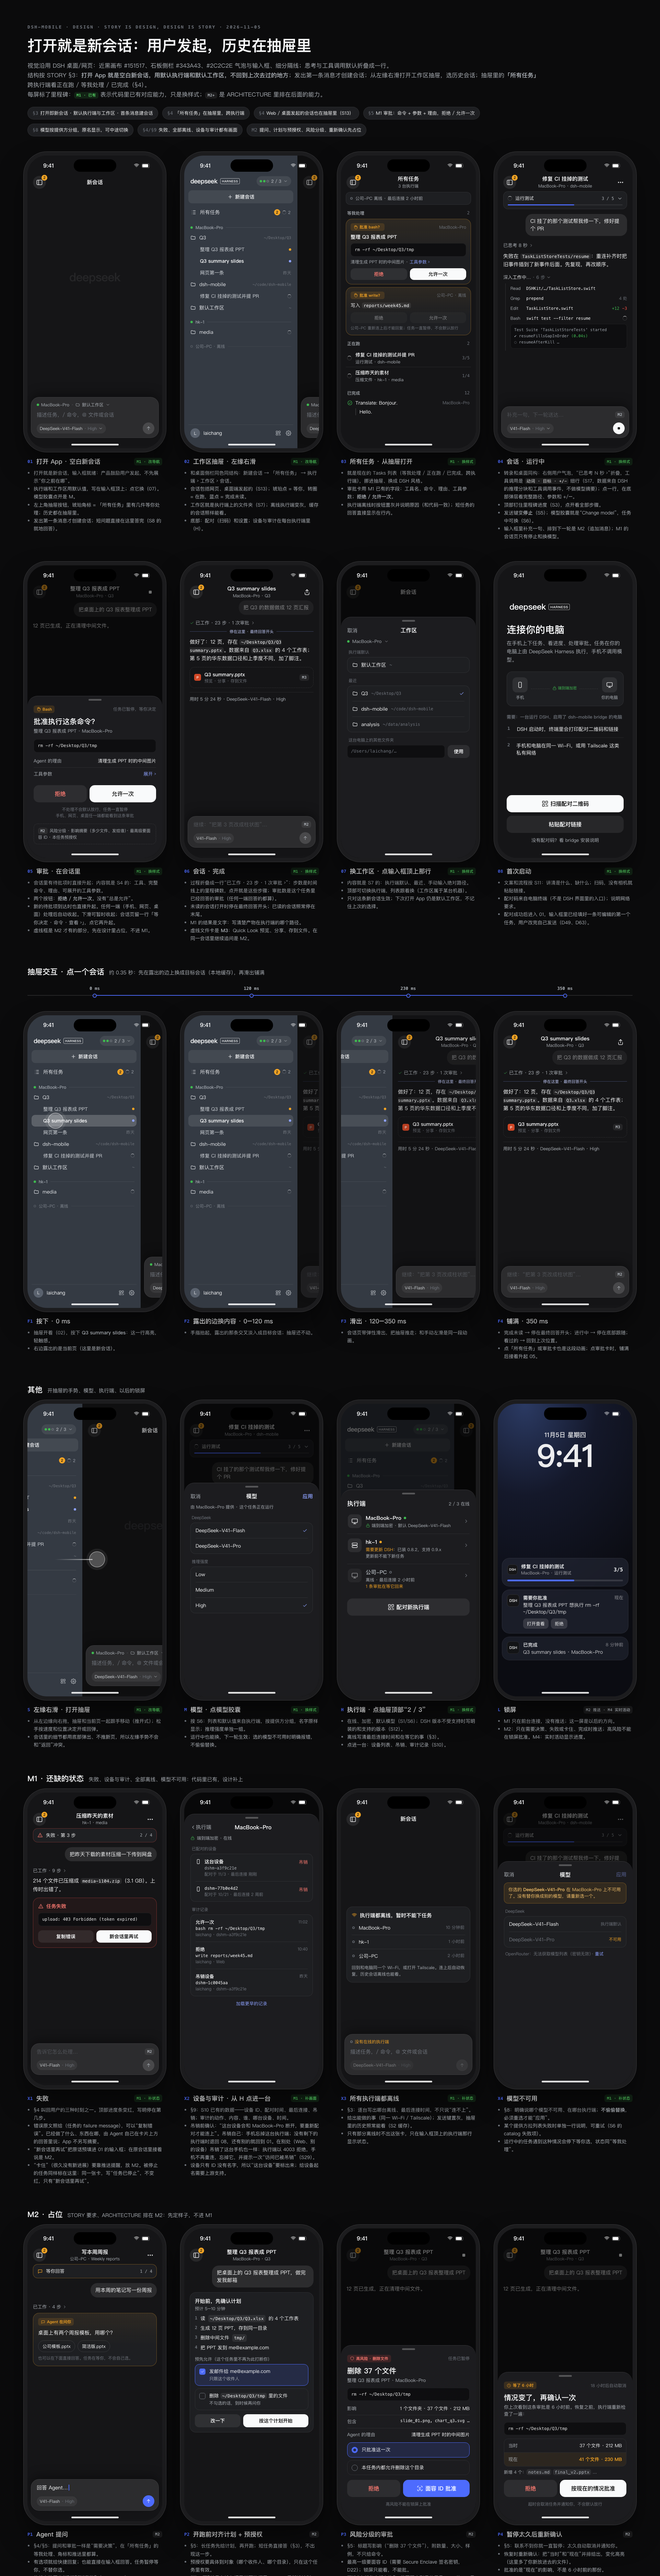
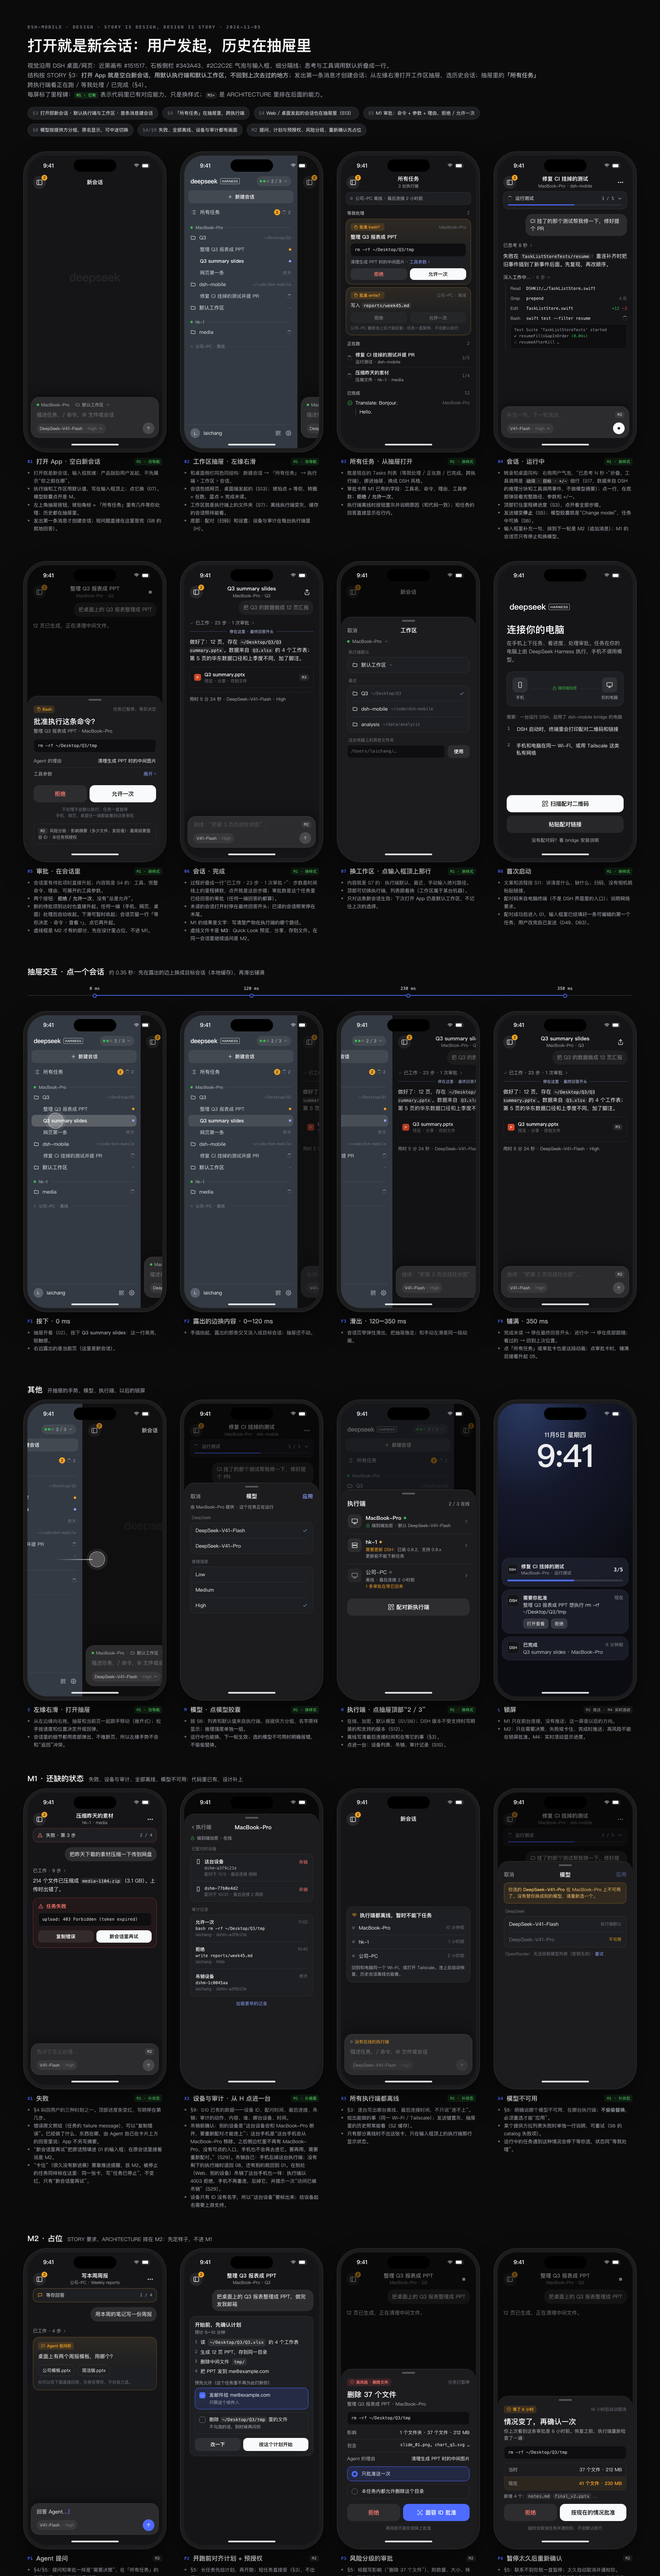
S29: the revoke-this-device alert says the host leaves the drawer
The user asked (2026-11-08) that the confirmation before a revoke of this
device say what happens: this phone is removed from the host, the host leaves
the drawer with nothing left to tap, and the phone does not reconnect. The
same words in X2 and the drawer's "Devices and audit"; a revoke of another
device keeps its own message. The real-bridge UI tests check the text.
D82 and the X2 caption on the board say it too.

diff --git a/ios/dsh-mobileUITests/S29RevokeUITests.swift b/ios/dsh-mobileUITests/S29RevokeUITests.swift
@@ -123,6 +123,15 @@ final class S29RevokeUITests: XCTestCase {
         }
     }
 
+    /// The user (2026-11-08): the alert before a revoke of this device says that this device is
+    /// removed and the host leaves the drawer, with nothing left to tap.
+    private func expectRevokeThisDeviceMessage(_ alert: XCUIElement) {
+        for part in ["这台手机会从", "移除", "侧边栏里不再有", "没有可点的入口", "不会再去连它"] {
+            XCTAssertTrue(alert.staticTexts.matching(NSPredicate(format: "label CONTAINS %@", part)).firstMatch.exists,
+                          "the alert does not say \"\(part)\": \(alert.debugDescription)")
+        }
+    }
+
     /// The hosts sheet path on a real bridge (scripts/dsh-up.mjs on S29's ports, Noise): pair,
     /// revoke this device in X2. The bridge answers, then closes with 4003 and refuses the phone.
     func testRevokeThisDeviceInHostsSheetOnTheRealBridgeOpens08AndStays() throws {
@@ -136,6 +145,8 @@ final class S29RevokeUITests: XCTestCase {
         app.buttons["device.revoke.\(own.label)"].tap()
         let alert = app.alerts.firstMatch
         XCTAssertTrue(alert.waitForExistence(timeout: 5), app.debugDescription)
+        expectRevokeThisDeviceMessage(alert)
+        saveShot("s29-revoke-confirm")
         alert.buttons.matching(NSPredicate(format: "label == %@", "吊销")).firstMatch.tap()
         expect08AndStays(app, shot: "s29-real-bridge-08")
     }
@@ -153,6 +164,7 @@ final class S29RevokeUITests: XCTestCase {
         app.buttons["device.revoke.\(own.label)"].tap()
         let alert = app.alerts.firstMatch
         XCTAssertTrue(alert.waitForExistence(timeout: 5), app.debugDescription)
+        expectRevokeThisDeviceMessage(alert)
         alert.buttons.matching(NSPredicate(format: "label IN {'Revoke', '吊销'}")).firstMatch.tap()
         expect08AndStays(app, shot: "s29-real-bridge-drawer-08")
     }

diff --git a/design/board.html b/design/board.html
@@ -935,7 +935,7 @@ svg.s{width:16px;height:16px} svg.xs{width:13px;height:13px} svg.l{width:24px;he
 </div>
 <div class="cap"><h3><i>X2</i>设备与审计 · 从 H 点进一台<span class="mtag m1">M1 · 补画面</span></h3><ul>
   <li>§9：S10 已有的数据——设备 ID、配对时间、最后连接、吊销；审计的动作、内容、谁、哪台设备、时间。</li>
-  <li>吊销前确认：“这台设备会和 MacBook-Pro 断开，要重新配对才能连上”。吊销自己：手机忘掉这台执行端；没有剩下的执行端时退回 08，还有别的就回到 01。在别处（Web、别的设备）吊销了这台手机也一样：执行端以 4003 拒绝，手机不再重连，忘掉它，并提示一次“访问已被吊销”（S29）。</li>
+  <li>吊销前确认：别的设备是“这台设备会和 MacBook-Pro 断开，要重新配对才能连上”；这台手机是“这台手机会从 MacBook-Pro 移除。之后侧边栏里不再有 MacBook-Pro，没有可点的入口，手机也不会再去连它。要再用，需要重新配对。”（S29）。吊销自己：手机忘掉这台执行端；没有剩下的执行端时退回 08，还有别的就回到 01。在别处（Web、别的设备）吊销了这台手机也一样：执行端以 4003 拒绝，手机不再重连，忘掉它，并提示一次“访问已被吊销”（S29）。</li>
   <li>设备只有 ID 没有名字，所以“这台设备”要标出来；给设备起名需要上游支持。</li>
 </ul></div>
 </div>

diff --git a/ios/dsh-mobile/Features/Hosts/HostDetailView.swift b/ios/dsh-mobile/Features/Hosts/HostDetailView.swift
@@ -57,11 +57,18 @@ struct HostDetailView: View {
             Button(role: .cancel) {} label: { Text("Cancel", tableName: "Hosts") }
         } message: { device in
             if device.id == list?.currentDeviceID {
-                Text("This phone will lose access to \(host?.name ?? ""). To use it again, pair again.", tableName: "Hosts")
+                // S29: say what happens; the host leaves the drawer and is not retried (D82).
+                Text(Self.revokeThisDeviceMessage(host?.name ?? ""))
             } else {
                 Text("Device \(device.id) will lose access to \(host?.name ?? ""). It must pair again to reconnect.", tableName: "Hosts")
             }
         }
+    }
+
+    /// S29: the message of the alert before a revoke of this device (X2 and the drawer's
+    /// "Devices and audit").
+    static func revokeThisDeviceMessage(_ host: String) -> String {
+        String(localized: "This phone will be removed from \(host). \(host) will leave the drawer, with nothing left to tap, and the phone will not reconnect to it. To use it again, pair again.", table: "Hosts")
     }
 
     private var confirmTitle: Text {

diff --git a/ios/dsh-mobile/Features/Devices/DeviceManagementView.swift b/ios/dsh-mobile/Features/Devices/DeviceManagementView.swift
@@ -58,7 +58,12 @@ struct DeviceManagementView: View {
             }
             Button("Cancel", role: .cancel) {}
         } message: { device in
-            Text("Device \(device.id) will disconnect from \(host). It must pair again to reconnect.")
+            if device.id == list?.currentDeviceID {
+                // S29: the same words as X2 (HostDetailView).
+                Text(HostDetailView.revokeThisDeviceMessage(host))
+            } else {
+                Text("Device \(device.id) will disconnect from \(host). It must pair again to reconnect.")
+            }
         }
     }
 

diff --git a/ARCHITECTURE.md b/ARCHITECTURE.md
@@ -140,7 +140,7 @@ Solid arrows are the outbound path (user → executor), dashed arrows the return
 | D65 | *Confirmed by the user (S23, 2026-11-07), with the cross-fade only on 03 and scroll positions in memory only.* **Drawer motion and landing positions (DESIGN.md "Navigation", F1–F4).** `ShellModel.open(_:)` runs the motion; `DrawerMotion` holds the times. F1 (0 ms): the drawer row has a pressed highlight (`DrawerPressStyle`, the current-row color) and a light impact haptic (`sensoryFeedback` on `ShellModel.taps`). F2 (0–120 ms): the page is set at once and cross-fades (opacity, ease-out 120 ms) in the peeking edge; the page comes from the cache, as before; the drawer does not move. F3 (120–350 ms): the drawer closes with one spring (`spring(duration: 0.23, bounce: 0.12)`), so the page slides in and pushes the drawer away; a released drag, the peeking-page tap and the drawer button use the same spring. F4 (350 ms): `ShellModel.moving` goes false; S18's `PendingApprovalBar` waits for it, so 05 comes up after the page fills the screen. The same `open` serves 新建会话, 所有任务 and a card in 03; from 03 there is no drawer to push, so the page only cross-fades (then 05). The first message (D51) uses `ShellModel.show(_:)`: no motion, the same page. Landing (`SessionLanding`, decided once when the page is made, on top of D60): done, failed or stopped and not read → the start of the final answer (S19's marker and scroll, unchanged); running or waiting → the bottom, following the stream (D56); read → the last position that the user scrolled to on this phone (`ShellModel.lastPositions`, the content offset after a scroll by hand, counted from below S19's rows before the final answer, because the marker shows only on the unread visit; in memory for this run of the app); a read session that the user never scrolled, or after a relaunch, opens at the end, as in D60. A running session ignores a saved position. The restore repeats when the history or the text comes in, until the user scrolls (as S19's marker). `session.transcript` has the landing as its accessibility value. Alternatives considered: save the position also when the user did not scroll (a read session then opens at the answer's start forever, and S19's "read → end" no longer holds); keep positions on disk (more state across relaunch for a small gain; later if users ask); a matched-geometry move of the row into the page (heavier, and F2 says the edge cross-fades); a slide-in from the right for the 03 card (a push, which DESIGN.md does not have); the haptic on every page change (the first message is not a tap in the drawer). | STORY §4 (async first: open a session and see what matters first); DESIGN.md "Navigation" and F1–F4. |
 | D67 | *Confirmed by the user (S24, 2026-11-07).* **The keyboard goes away before any action that is not typing.** The shell's navigation state is the one place: `ShellModel.page`, `sheet` and `drawerOpen` call `Keyboard.dismiss()` (`resignFirstResponder` on the whole app) in `didSet` when the page changes, a sheet comes up, or the drawer opens. So every button that opens the drawer, a picker or a sheet, or moves to another page, is covered with no code of its own. The left-edge drag dismisses when the drag starts (not when the drawer settles), and the new session's page keeps its own tap and swipe down (`NewSessionBody`). Typing and the send key do not move the shell, so they keep the keyboard. Not covered: the host menu (`Picker` `.menu`) above the composer, which iOS shows as a menu, not a sheet. | Alternatives considered: one `endEditing` per button (each new button would have to remember it, which caused this bug); `.onChange` in `ShellView` (runs a frame after the change, so the keyboard would go down during the drawer's spring); a full-screen tap-catcher while the keyboard is up (it eats the first tap on every button, so each action needs two taps). | STORY §6 (ordinary people can use it: the phone behaves as iOS users expect); DESIGN.md "Navigation". |
 | D70 | *Confirmed by the user (S25, 2026-11-07).* **App icon (DESIGN.md "App icon").** An asset catalog `AppIcon.appiconset` with one 1024×1024 PNG per iOS appearance: default (opaque, no alpha channel), dark (transparent background) and tinted (grayscale on transparent). The unused mac slots are gone (the app is iPhone and iPad). The source is `design/icon.svg`; `scripts/render-icon` renders it with headless Chrome (as `scripts/render-design`) and flattens the default PNG with `scripts/lib/flatten-png.swift` (ImageIO, no new dependency). `scripts/demo/s25.sh` checks the built bundle: `CFBundleIconName = AppIcon` and the three renditions in `Assets.car`. | Alternatives considered: (1) an Icon Composer `.icon` file (layered Liquid Glass): the right long-term format for iOS 26, but Icon Composer is a GUI app and its JSON format is not documented, so the repo could not render it reproducibly from the SVG or check it from the command line; iOS 26 still applies its glass and clear looks to an asset-catalog icon. Switch when the format can be scripted. (2) Draw the icon in Swift (CoreGraphics) instead of SVG: no Chrome needed, but harder to edit and to preview. (3) `rsvg-convert` or ImageMagick: a new Homebrew dependency for what Chrome already does here. (4) Opaque dark and tinted PNGs: Apple asks for transparent backgrounds so the system can draw its own. |
-| D82 | *Provisional, pending user confirmation (S29, 2026-11-08).* **A close 4003 (device unknown) is final: the app forgets the host.** The host refuses this device with WebSocket close 4003 in two places (D21 b, D40): on its live sockets right after a revoke of it (from this phone, another client or the web UI), and on every later Noise reconnect. `HostConnection` records the refusal (`deviceRevoked`, `HostConnectionError.deviceRevoked`) from the close of a live socket, a refused handshake (`NoiseChannelError.deviceUnknown`) or a refused transport. `TaskListStore`'s sync loop then stops for that host instead of backing off and retrying: it drops the host and its rows, adds it to `revokedHosts`, and calls `onHostRevoked` once. `AppModel` forgets the host as in D59 (removes the pairing, rebuilds the store) and shows the alert "Access removed: <host> revoked this phone's access. To use it again, pair it again." once; not after a revoke from this phone's X2 whose response arrived first (the user knows). With no host left the root shows 08, else 01 with the other hosts. A host that is only offline (connection refused, timeout, other close codes) is retried with backoff as before. Root cause of the 2026-11-08 report: the app treated 4003 like a dropped connection, so a host that revoked this phone stayed in the drawer and showed "connecting" on every backoff round. D59's forget ran only after the revoke response in X2 (H's host detail). The drawer's "Devices and audit" under each host (S10's `DeviceManagementView`) can also revoke this device, and it only closed the view; a revoke from the web UI or another client has no app path at all. On a real bridge (scripts/demo/s29.sh) the X2 path already worked before the fix (the response arrives before the close) and the drawer path reproduced the bug. `FakeHost` now closes and refuses with 4003 like the bridge (`revokeThisDevice()` revokes from another client). | Alternatives: keep the host in the list as "access removed" with a Pair again button (needs a new reachability state in every host view, and the D59 alternative "keep the revoked host as no access" was not chosen); keep retrying with a long backoff (still never succeeds, and the drawer still shows the host); forget the host without a notice (the user would not know why it went, when the revoke came from another client); ask the bridge to send a `DeviceRevoked` event before the close (a protocol change for the same effect; the close code is already the bridge's contract, D21). |
+| D82 | *Provisional, pending user confirmation (S29, 2026-11-08).* **A close 4003 (device unknown) is final: the app forgets the host.** The host refuses this device with WebSocket close 4003 in two places (D21 b, D40): on its live sockets right after a revoke of it (from this phone, another client or the web UI), and on every later Noise reconnect. `HostConnection` records the refusal (`deviceRevoked`, `HostConnectionError.deviceRevoked`) from the close of a live socket, a refused handshake (`NoiseChannelError.deviceUnknown`) or a refused transport. `TaskListStore`'s sync loop then stops for that host instead of backing off and retrying: it drops the host and its rows, adds it to `revokedHosts`, and calls `onHostRevoked` once. `AppModel` forgets the host as in D59 (removes the pairing, rebuilds the store) and shows the alert "Access removed: <host> revoked this phone's access. To use it again, pair it again." once; not after a revoke from this phone's X2 whose response arrived first (the user knows). With no host left the root shows 08, else 01 with the other hosts. Before a revoke of this device, the alert (X2 and the drawer's "Devices and audit") says what happens: "This phone will be removed from <host>. <host> will leave the drawer, with nothing left to tap, and the phone will not reconnect to it. To use it again, pair again." (the user, 2026-11-08); a revoke of another device keeps its own message. A host that is only offline (connection refused, timeout, other close codes) is retried with backoff as before. Root cause of the 2026-11-08 report: the app treated 4003 like a dropped connection, so a host that revoked this phone stayed in the drawer and showed "connecting" on every backoff round. D59's forget ran only after the revoke response in X2 (H's host detail). The drawer's "Devices and audit" under each host (S10's `DeviceManagementView`) can also revoke this device, and it only closed the view; a revoke from the web UI or another client has no app path at all. On a real bridge (scripts/demo/s29.sh) the X2 path already worked before the fix (the response arrives before the close) and the drawer path reproduced the bug. `FakeHost` now closes and refuses with 4003 like the bridge (`revokeThisDevice()` revokes from another client). | Alternatives: keep the host in the list as "access removed" with a Pair again button (needs a new reachability state in every host view, and the D59 alternative "keep the revoked host as no access" was not chosen); keep retrying with a long backoff (still never succeeds, and the drawer still shows the host); forget the host without a notice (the user would not know why it went, when the revoke came from another client); ask the bridge to send a `DeviceRevoked` event before the close (a protocol change for the same effect; the close code is already the bridge's contract, D21). |
 
 ## 4. iOS app (`ios/`)
 
